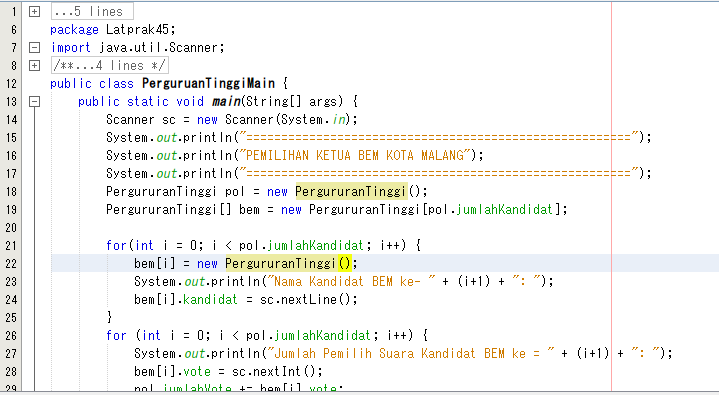
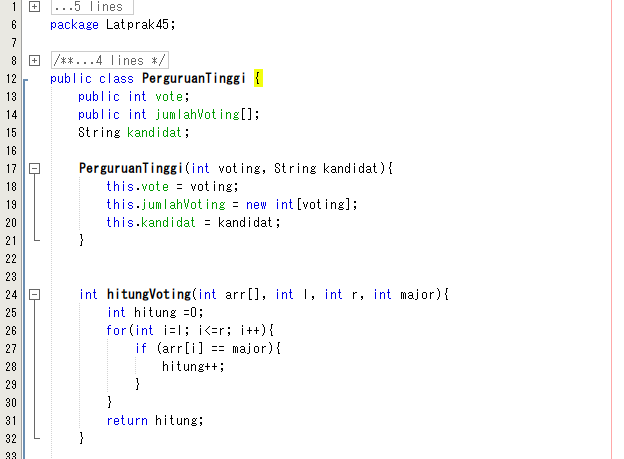
update

diff --git a/Pert-4/BruteForceDivideConquer/src/main/java/Latprak45/PerguruanTinggiMain.java b/Pert-4/BruteForceDivideConquer/src/main/java/Latprak45/PerguruanTinggiMain.java
@@ -12,28 +12,28 @@ import java.util.Scanner;
 public class PerguruanTinggiMain {
     public static void main(String[] args) {
         Scanner sc = new Scanner(System.in);
+        Scanner in = new Scanner(System.in);
         System.out.println("=======================================================");
         System.out.println("PEMILIHAN KETUA BEM KOTA MALANG");
         System.out.println("=======================================================");
-        PergururanTinggi pol = new PergururanTinggi();
-        PergururanTinggi[] bem = new PergururanTinggi[pol.kandidatBanyak];
+        System.out.print("Masukkan banyak kandidat: ");
+        int banyakKandidat = in.nextInt();
+        PerguruanTinggi[] bem = new PerguruanTinggi[banyakKandidat];
         
-        for(int i = 0; i < pol.kandidatBanyak; i++) {
-            bem[i] = new PergururanTinggi();
-            System.out.println("Nama Kandidat BEM ke- " + (i+1) + ": ");
-            bem[i].kandidat = sc.nextLine();
+        for(int i=0; i<bem.length; i++ ){
+        System.out.print("Masukkan nama kandadidat ke-" + (i+1)+ ": ");
+        String kandit = sc.nextLine();
+        System.out.print("Masukkan jumlah voter kandidat ke-" + (i+1) + ": " );
+        int voter = in.nextInt();
+        bem[i] = new PerguruanTinggi(voter,kandit);
+            for(int j=0; j<bem[i].vote; j++){
+                    System.out.print("Masukkan jumlah voting kandidat ke-" +(j+1) + " = ");
+                    bem[i].jumlahVoting[j]= sc.nextInt(); 
+                    sc.nextLine();
+            }
+            System.out.println("===================================");
+            System.out.println("Kandidat " + bem[i].kandidat + " adalah = " + bem[i].hasilVoting(bem[i].jumlahVoting, 0, bem[i].vote-1));
         }
-        for (int i = 0; i < pol.kandidatBanyak; i++) {
-            System.out.println("Jumlah Pemilih Suara Kandidat BEM ke = " + (i+1) + ": ");
-            bem[i].vote = sc.nextInt();
-            pol.jumlahVoting += bem[i].vote;
-        }
-        System.out.println("=======================================================");
-        int hasil_bem = pol.hitungHasil(pol.jumlahVoting, bem[0].vote, bem[1].vote, bem[2].vote, bem[3].vote);
-        if(hasil_bem == 0) {
-            System.out.println("Kandidat memiliki mayoritas hampir sama");
-        }else{
-            System.out.println("Ketua BEM Kota Malang Adalah " + bem[hasil_bem-1].kandidat);
-        }
+        
     }
 }

diff --git a/Pert-4/BruteForceDivideConquer/src/main/java/Latprak45/PerguruanTinggi.java b/Pert-4/BruteForceDivideConquer/src/main/java/Latprak45/PerguruanTinggi.java
@@ -1,0 +1,50 @@
+/*
+ * To change this license header, choose License Headers in Project Properties.
+ * To change this template file, choose Tools | Templates
+ * and open the template in the editor.
+ */
+package Latprak45;
+
+/**
+ *
+ * @author USER
+ */
+public class PerguruanTinggi {
+    public int vote;
+    public int jumlahVoting[];
+    String kandidat;
+        
+    PerguruanTinggi(int voting, String kandidat){
+        this.vote = voting;
+        this.jumlahVoting = new int[voting];
+        this.kandidat = kandidat;
+    }
+    
+        
+    int hitungVoting(int arr[], int l, int r, int major){
+        int hitung =0;
+        for(int i=l; i<=r; i++){
+            if (arr[i] == major){
+                hitung++;
+            }
+        }
+        return hitung;
+    }
+    
+    int hasilVoting(int arr[], int l, int r){
+        if (l==r){
+            return arr[l];
+        }
+        int mid = (r-l)/2 + l;
+        int leftMajor = hasilVoting(arr, l, mid);
+        int rightMajor = hasilVoting(arr, mid+1, r);
+        
+        if (leftMajor==rightMajor){
+            return leftMajor;
+        }
+        int leftHitung = hitungVoting(arr, l, r, leftMajor);
+        int rightHitung = hitungVoting(arr, l, r, rightMajor);
+        
+        return leftHitung > rightHitung ? leftMajor : rightMajor;
+    }
+}

diff --git a/Pert-4/Laporan/Laporan 5 Hakan.md b/Pert-4/Laporan/Laporan 5 Hakan.md
@@ -247,3 +247,6 @@ hijau dimulainya proses **combine**
 <img src = "latprak4-5 (1).png">
 <img src = "latprak4-5 (2).png">
 <img src = "latprak4-5 (3).png">
+<img src = "latprak4-5 (4).png">
+<img src = "latprak4-5 (5).png">
+
